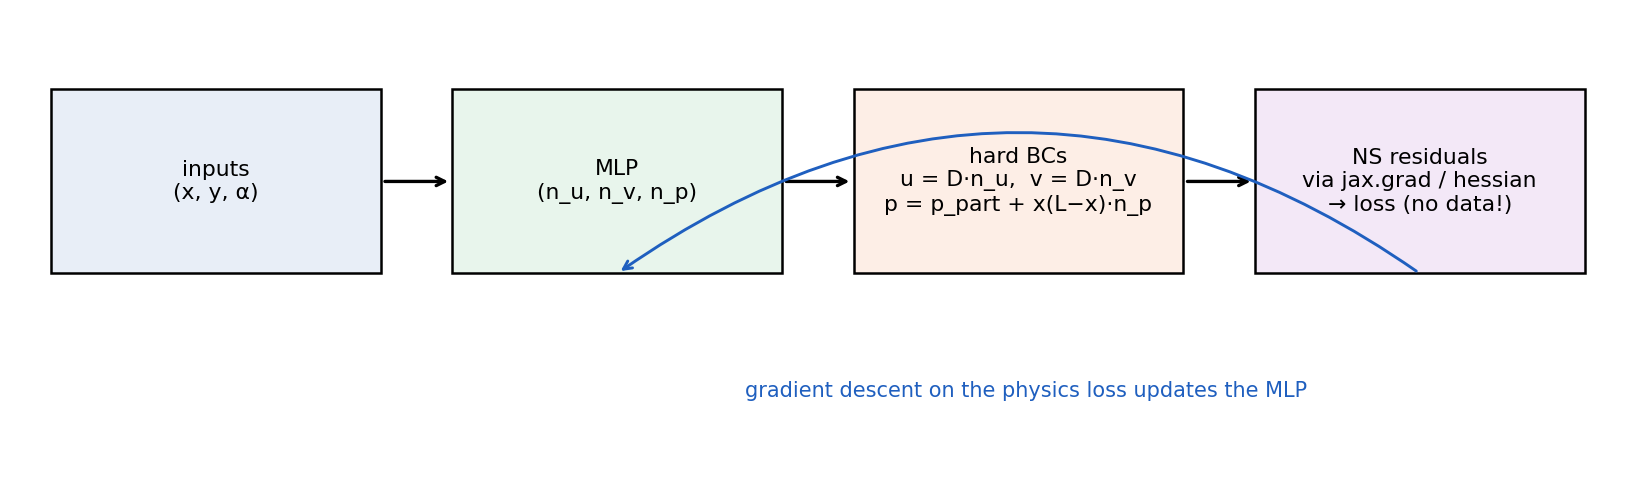
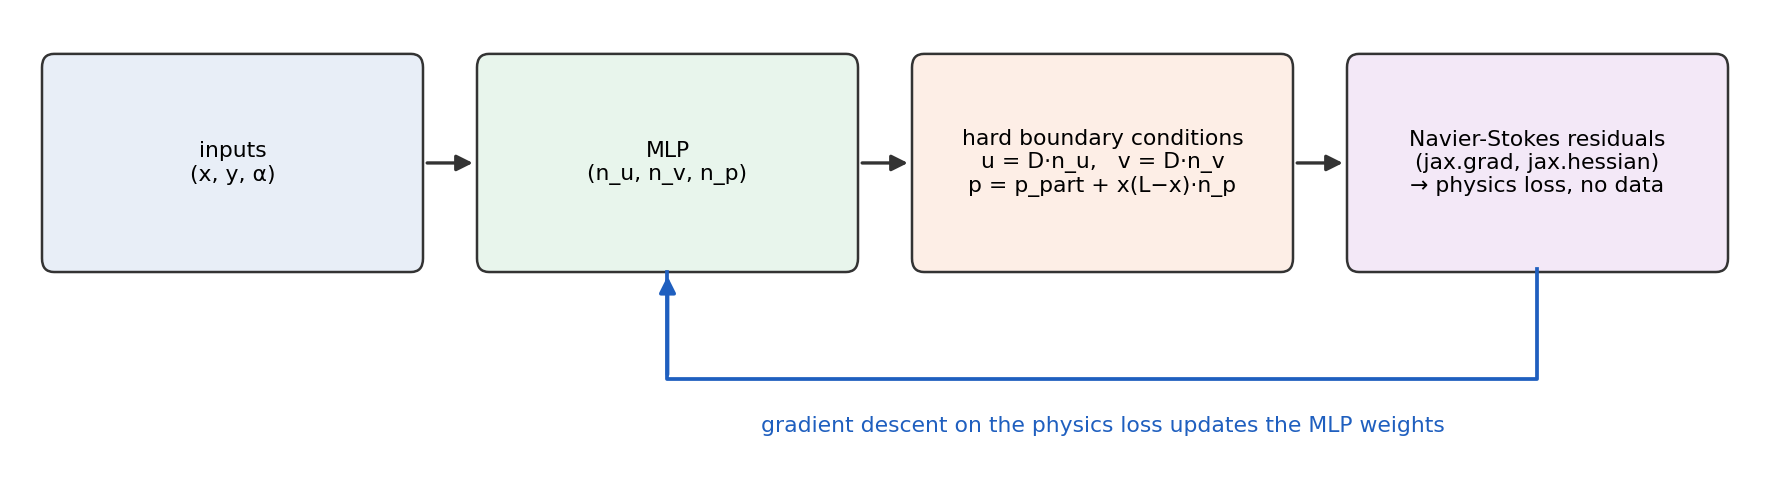
Cleaner method diagram

Changed region(s): [[0.0309, 0.0938, 0.9891, 0.875], [0.0927, 0.2812, 0.1545, 0.4375]]

diff --git a/README.md b/README.md
@@ -5,7 +5,7 @@ simulation data**, after Sun, Gao, Pan & Wang (CMAME 2020). A neural
 network is trained to satisfy the steady incompressible Navier-Stokes
 equations at random points, with boundary conditions built into the
 network **exactly** rather than penalized — so the only training signal is
-physics. One file of library code, three runnable examples, one
+physics. One file of library code, four runnable examples, one
 dependency (`jax`) beyond NumPy and matplotlib.
 
 <p align="center">
@@ -19,8 +19,9 @@ pip install -r requirements.txt      # jax, numpy, matplotlib (CPU is fine)
 
 python check_physics.py              # 1. verify the physics code (seconds)
 python poiseuille.py                 # 2. flat channel vs. exact solution (~2 min)
-python stenosis.py                   # 3. parametric stenotic channel (~5-10 min)
-python uncertainty.py                # 4. Monte Carlo UQ with the model from step 3
+python stenosis.py --alpha 0.3       # 3. one stenotic channel (~20 min)
+python stenosis.py                   # 4. parametric surrogate over alpha (~30 min)
+python uncertainty.py                # 5. Monte Carlo UQ with the model from step 4
 ```
 
 > [!IMPORTANT]
@@ -31,9 +32,10 @@ python uncertainty.py                # 4. Monte Carlo UQ with the model from ste
 > is correct and everything else is just optimization.
 
 > [!TIP]
-> Everything runs on CPU. A GPU build of JAX makes the stenosis example
+> Everything runs on CPU. A GPU build of JAX makes the stenosis examples
 > several times faster but is not required. Iteration counts are command-line
-> options (`--iters`), so you can do a quick smoke test with `--iters 500`.
+> options (`--iters` for Adam, `--lbfgs` for the refinement stage), so a quick
+> smoke test is `--iters 500 --lbfgs 200`.
 
 ## The idea
 
@@ -85,19 +87,50 @@ the velocity profile against the parabola and plots the fields.
 <img src="figures/poiseuille_result.png" width="760" alt="Poiseuille: learned vs exact profile, loss history, u and p fields">
 </p>
 
-### 2. Stenotic channel — one network, many geometries
+### 2. Stenotic channel — one geometry
 
-The constriction severity $\alpha$ in the upper wall
-$h(x) = H - \alpha\,e^{-50(x-0.5)^2}$ is an **input** to the network, so a
-single training run produces a surrogate over the whole range
-$\alpha \in [0.2, 0.6]$. The script plots speed and pressure for several
-$\alpha$ values from the same trained model.
+A Gaussian constriction of severity $\alpha$ in the upper wall,
+$h(x) = H - \alpha\,e^{-50(x-0.5)^2}$, with a parabolic inlet velocity,
+no-slip walls, and zero outlet pressure — all built into the network. The
+jet through the throat deflects toward the flat wall, and the pressure
+drops sharply across the constriction with a low-pressure pocket just
+downstream of the bump:
 
 <p align="center">
-<img src="figures/stenosis_result.png" width="760" alt="Stenotic channel speed and pressure at several alpha">
+<img src="figures/stenosis_alpha0.3_result.png" width="820" alt="Stenotic channel at alpha = 0.3: speed and pressure">
 </p>
 
-### 3. Uncertainty quantification — free, once you have a surrogate
+The script also prints the flow rate $\int u\,dy$ at the inlet, throat, and
+outlet. Mass conservation is a check the loss value cannot fake: the three
+numbers must agree (0.667 here).
+
+> [!IMPORTANT]
+> Adam alone stalls on this problem at a loss of order 0.3. The
+> **L-BFGS refinement** on a fixed set of collocation points then drives it
+> down another two orders of magnitude — this two-stage schedule is standard
+> for physics-informed networks and is what makes the throat resolve.
+> Collocation points are also concentrated around the throat, where the
+> gradients live.
+
+### 3. Parametric surrogate — one network, many geometries
+
+Make $\alpha$ an **input** to the network and a single training run gives
+the flow for every severity in $\alpha \in [0.1, 0.4]$. Same model, three
+geometries: the pressure drop climbs with severity and the throat speed
+rises with it, as continuity demands.
+
+<p align="center">
+<img src="figures/stenosis_result.png" width="760" alt="Parametric stenosis surrogate at several alpha">
+</p>
+
+> [!NOTE]
+> The parametric problem is genuinely harder than a single geometry (one
+> more input dimension, and the network must resolve the throat for every
+> $\alpha$ at once). The range is kept to $\alpha \le 0.4$ (40 % blockage)
+> where it converges cleanly; pushing to more severe constrictions needs
+> longer training or a larger network — try it with `--alpha-range`.
+
+### 4. Uncertainty quantification — free, once you have a surrogate
 
 Because $\alpha$ is an input, propagating a distribution of $\alpha$ costs
 one forward pass per sample. `uncertainty.py` draws
@@ -110,7 +143,7 @@ re-training, no simulations.
 </p>
 
 > [!WARNING]
-> The three result figures above are produced by running the scripts; they
+> The result figures above are produced by running the scripts; they
 > are committed to the repository after a run, so they show what the code
 > in that commit actually produced. Re-run and re-commit them if you
 > change the model or the training settings.
@@ -121,8 +154,8 @@ re-training, no simulations.
 pcnn.py             library: MLP, problems with hard BCs, residuals, training
 check_physics.py    residual-code verification with the exact Poiseuille solution
 poiseuille.py       example 1
-stenosis.py         example 2 (parametric geometry)
-uncertainty.py      example 3 (Monte Carlo over alpha; needs models/stenosis.pkl)
+stenosis.py         examples 2 and 3 (--alpha for one geometry, none for parametric)
+uncertainty.py      example 4 (Monte Carlo over alpha; needs models/stenosis.pkl)
 figures/            images
 ```
 
